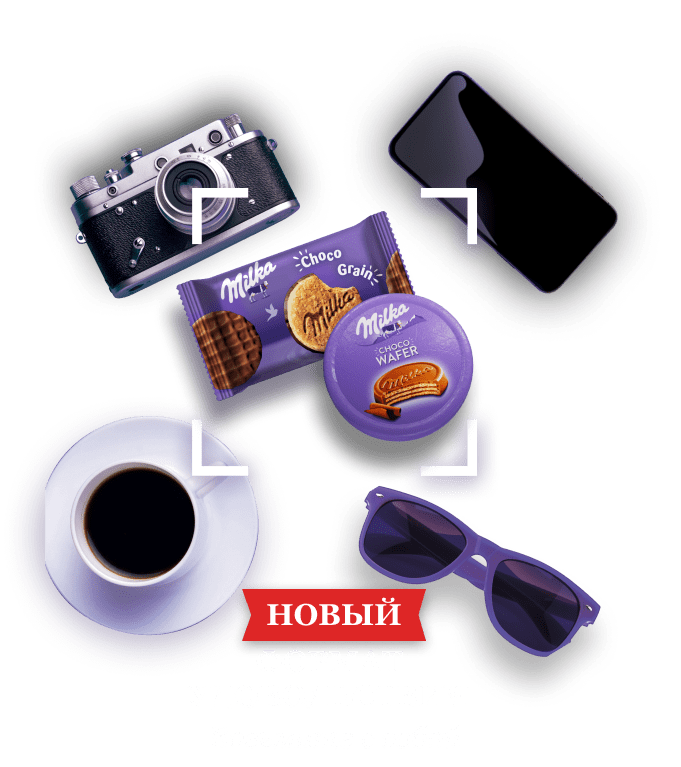
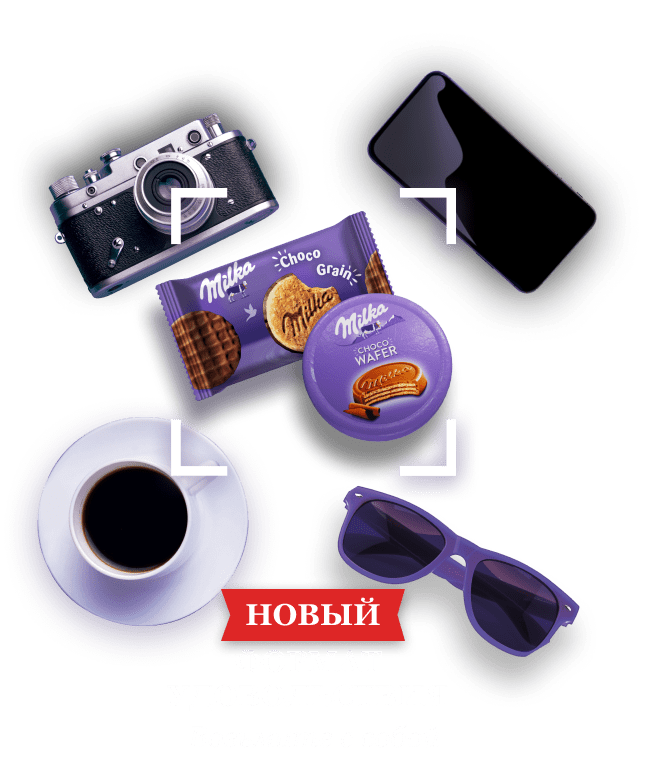
new img

diff --git a/css/styles_plug.css b/css/styles_plug.css
@@ -402,13 +402,13 @@ footer * {
 .plug {
     position: absolute;
     top: 26px;
-    left: -400px;
+    left: -370px;
     right: -500px;
     margin: auto;
-    width: 1671px;
+    width: 1661px;
     height: 870px;
     background: url(../img/plug.png) center no-repeat;
-    background-size: 1671px;
+    background-size: 1661px;
 }
 
 @media (max-width: 1000px) {
@@ -453,11 +453,11 @@ footer * {
 
     .plug {
         top: -56px;
-        left: -490px;
+        left: -470px;
         right: -500px;
-        width: 603px;
+        width: 598px;
         height: 733px;
         background: url(../img/plug-mob.png) center no-repeat;
-        background-size: 603px;
+        background-size: 598px;
     }
 }
